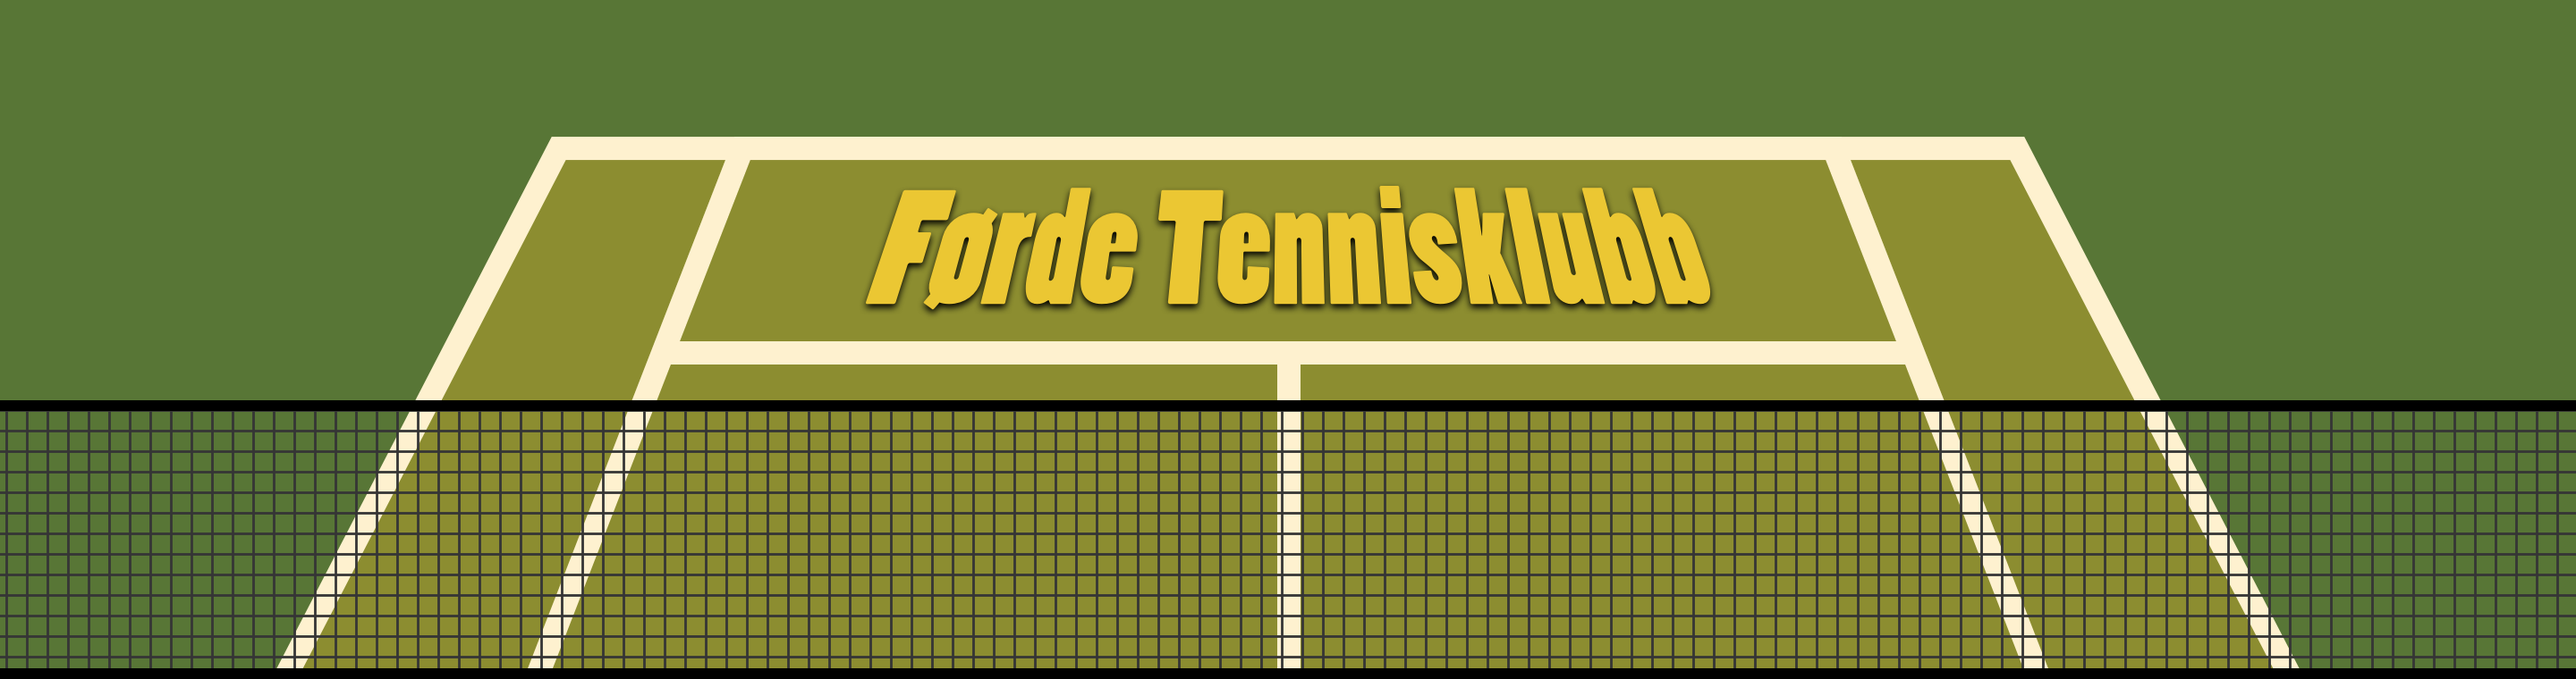
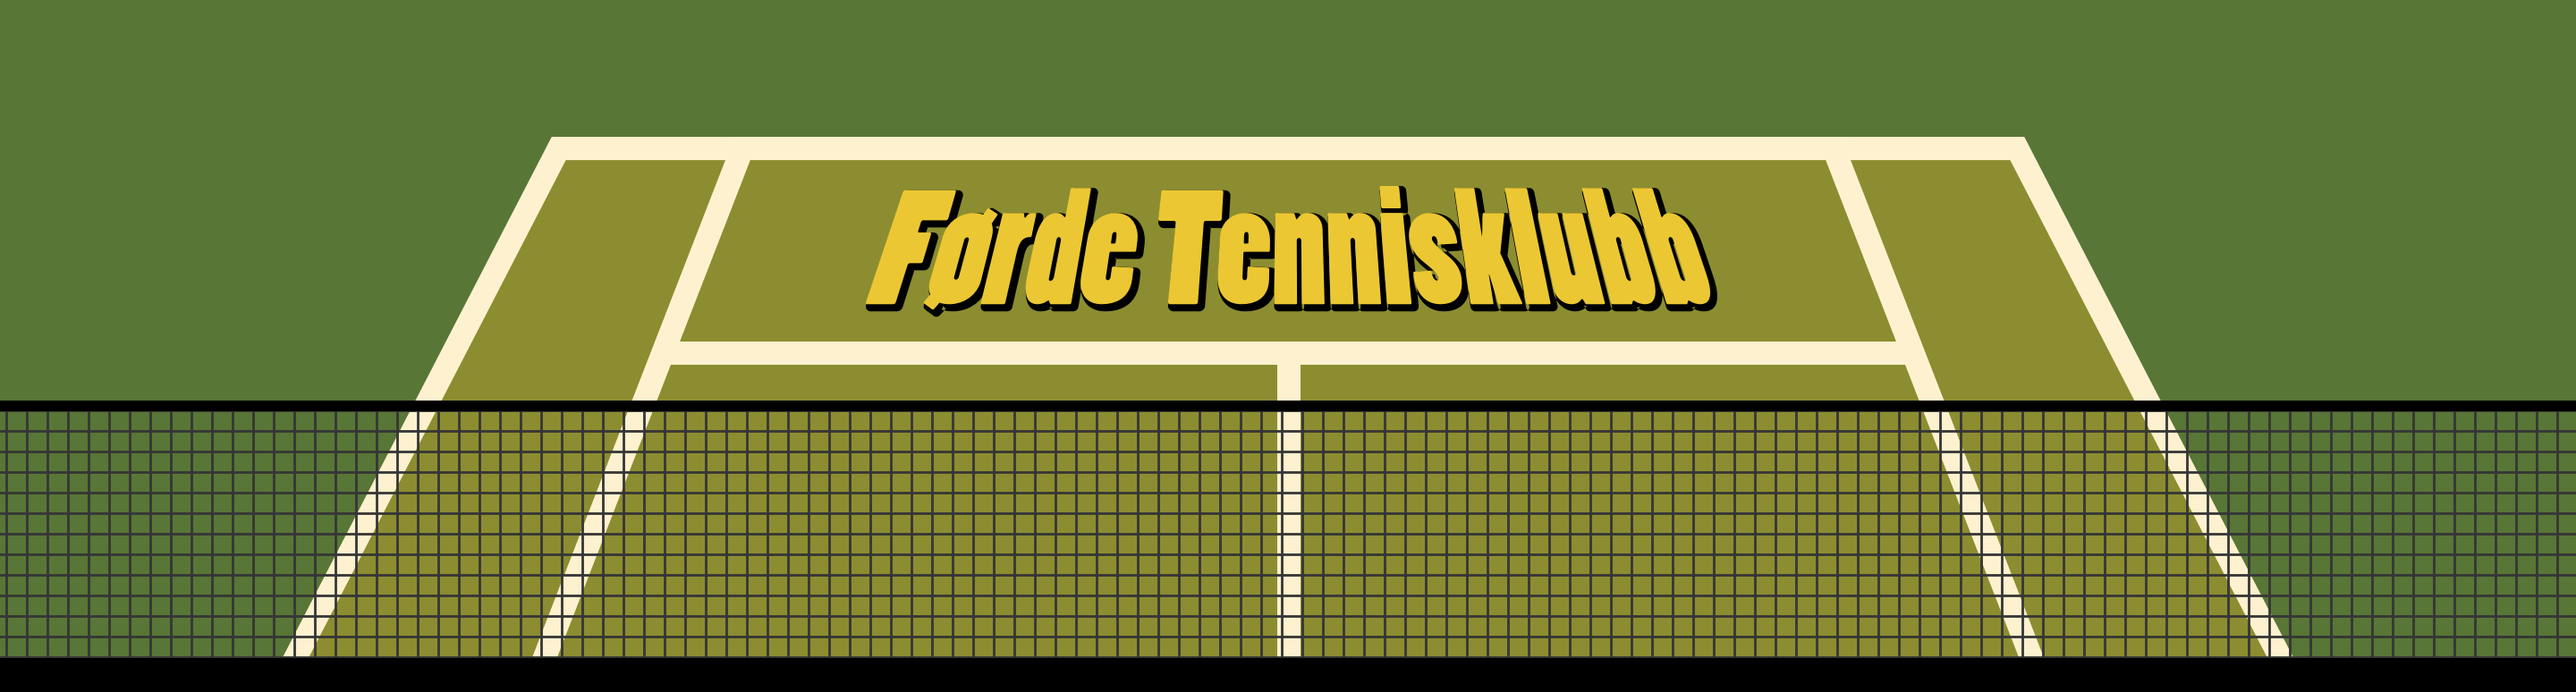
content

diff --git a/src/components/Home.vue b/src/components/Home.vue
@@ -6,30 +6,35 @@
         No treng vi berre 100 000 kroner for å sette i gong med bygginga.
         Så bli med og støtt Noregs første folkefinansierte tennisbane!</h4>
       <img src="../assets/tennisball.png" id="tennisball">
-      <h4 class="beige p">Så langt har vi samla inn 31200 på berre 5 dagar:</h4>
-      <img src="../assets/racket.png" id="racket">
+      <h4 class="beige p bold">Så langt har vi samla inn<span class="bold-underscore"> 31200kr</span> på berre 5 dagar:</h4>
       <div class="progress beige-bg">
         <div class="progress-bar progress-bar-striped progress-bar-animated" role="progressbar" aria-valuenow="32" aria-valuemin="0" aria-valuemax="100" style="width: 32%">
-          <p class="lead bold green">
+          <p class="lead bold black">
             31 200kr
           </p>
         </div>
       </div>
-
+      <h4 class="beige p">Kampanjen sluttar om <span class="bold-underscore">29 dagar!</span></h4>
+      <img src="../assets/spacer.png" id="spacer">
       <div class="small-container beige-bg">
-        <h3 class="bold blue">
-          Støtt oss med vipps eller nettbank
-        </h3>
         <img src="../assets/vipps_logo.png" id="vipps1">
-        <h4 class="blue p">
+        <h2 class="bold blue">
+          Støtt oss med vipps eller nettbank
+        </h2>
+        <h4 class="blue p padding-top-bottom">
           Vil du være med å folkefinansiere Tennisbane i Førde så kan du sende ønskeleg beløp på Vipps eller Nettbank.
         </h4>
-        <h2 class="blue bold">Vipps nummer: 17722</h2>
-        <h2 class="blue bold">Kontonummer: 15037510944</h2>
+        <h4 class="blue bold">Vipps nummer:</h4>
+        <h2 class="blue bold borderbox">17722</h2>
+        <div><img src="../assets/vipps1.jpg" id="vipps2"></div>
+        <h4 class="blue p-center padding-top-bottom">(Kontonummer: <span class="bold-underscore"> 15037510944</span>)</h4>
         <h4 class="blue p">PS: Hugs å merk donasjonen med navn slik at vi enkelt kan ta kontakt dersom det blir nødvendig. Dersom prosjektet skulle skjære seg eller prosjektet ikkje er påbegynt innan to år så vil du bli refundert fullt beløp.</h4>
-        <div><img src="../assets/vipps1.jpg" id="vipps1"></div>
       </div>
       <img src="../assets/spacer.png" id="spacer">
+      <h3 class="beige bold">Om folkefinansiering</h3>
+      <img src="../assets/spacer.png" id="spacer">
+      <img src="../assets/racket.png" id="racket">
+      <h3 class="beige bold">Slik fungerar kampanjen</h3>
   </div>
 </template>
 
@@ -69,12 +74,21 @@ export default {
   width: 300px;
   margin: auto;
   padding: 30px;
+  padding-top: 0px;
 }
 
 #vipps1 {
   width: 300px;
   margin: auto;
-  margin-bottom: 30px;
+  padding: 0px;
+  border-radius: 10px;
+}
+
+#vipps2 {
+  width: 300px;
+  margin: auto;
+  margin-top: 20px;
+  margin-bottom: 20px;
   padding: 0px;
   border-radius: 10px;
 }
@@ -107,6 +121,18 @@ export default {
 
 .btn-lg {
   height: 80px;
+}
+
+.borderbox {
+  padding: 10px;
+  border-color: #017272;
+  border-width: 4px;
+  border-style: solid;
+  border-radius: 5px;
+  width: 150px;
+  margin: auto;
+  margin-top: 20px;
+  margin-bottom: 20px;
 }
 
 

diff --git a/src/App.vue b/src/App.vue
@@ -1,6 +1,6 @@
 <template>
   <div id="app" class="yellow-bg">
-    <img src="./assets/header3.png" id="header-img">
+    <img src="./assets/header.png" id="header-img">
     <nav class=container id="navigation">
       <ul class="nav nav-tabs">
         <li class="nav-item" v-on:click="setActive">
@@ -47,6 +47,16 @@ export default {
   text-align: center;
 }
 
+@media (max-width: 767px) {
+  #navigation .nav-item a{
+    font-size: 24px !important;
+    padding-top: 25px !important;
+  }
+  #header-img {
+    height: 150px !important;
+  }
+}
+
 body {
   margin: 0;
 }
@@ -77,7 +87,7 @@ nav {
   border-width: 13px;
   border-style: solid;
   border-color:  #fef1cf;
-  padding: 15px 150px 500px 150px;
+  padding: 15px 10% 500px 10%;
 
 }
 
@@ -100,6 +110,10 @@ nav {
   color: #017272;
 }
 
+.black {
+  color: black;
+}
+
 .yellow-bg {
   background-color: #ebc733;
 }
@@ -119,12 +133,30 @@ nav {
   font-family: 'Lilita One' !important;
 }
 
+.bold-underscore {
+  font-family: 'Lilita One' !important;
+  text-decoration: underline;
+}
+
 .p {
   font-family: 'Helvetica' !important;
   font-weight: lighter;
   text-align: left;
   padding-left: 40px;
   padding-right: 40px;
+}
+
+.p-center {
+  font-family: 'Helvetica' !important;
+  font-weight: lighter;
+  text-align: center;
+  padding-left: 40px;
+  padding-right: 40px;
+}
+
+.padding-top-bottom {
+  padding-top: 20px;
+  padding-bottom: 20px;
 }
 
 #navigation .nav-link {
@@ -172,7 +204,7 @@ nav {
 }
 
 #spacer {
-  height: 20px;
+  height: 15px;
   margin-top: 50px;
   margin-bottom: 50px;
   width: 100%;
@@ -180,5 +212,7 @@ nav {
 
 #header-img {
   width: 100%;
+  height: 300px;
+  box-shadow: 0px 15px 60px 0px black;
 }
 </style>

diff --git a/src/components/Info.vue b/src/components/Info.vue
@@ -1,8 +1,12 @@
 <template>
   <div>
       <h1 class="beige bold" id="title">Meir info</h1>
-
       <img src="../assets/spacer.png" id="spacer">
+      <h3 class="beige bold">Kvifor treng vi ei Tennisbane i Førde?</h3>
+      <img src="../assets/spacer.png" id="spacer">
+      <h3 class="beige bold">Kva er planlagt</h3>
+      <img src="../assets/spacer.png" id="spacer">
+      <h3 class="beige bold">Milepælsplan</h3>
   </div>
 </template>
 

diff --git a/src/components/About.vue b/src/components/About.vue
@@ -1,8 +1,10 @@
 <template>
   <div>
-      <h1 class="beige bold" id="title">Om oss</h1>
-
-      <img src="../assets/spacer.png" id="spacer">
+    <h1 class="beige bold" id="title">Om oss</h1>
+    <img src="../assets/spacer.png" id="spacer">
+    <h3 class="beige bold">Kven er vi?</h3>
+    <img src="../assets/spacer.png" id="spacer">
+    <h3 class="beige bold">Kontakt</h3>
   </div>
 </template>
 
